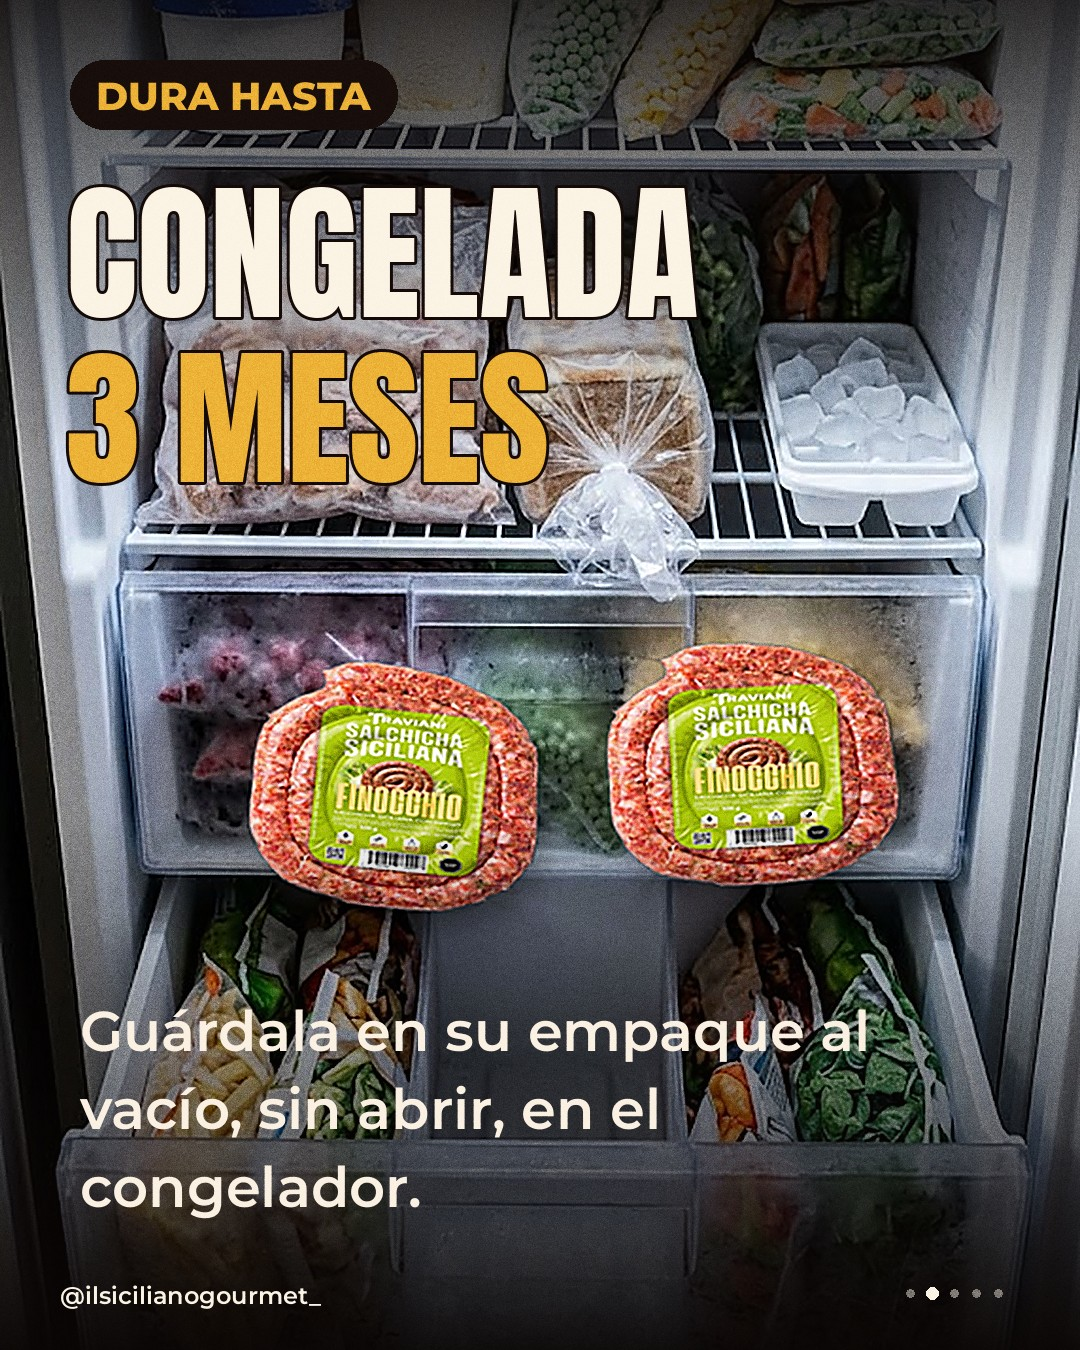
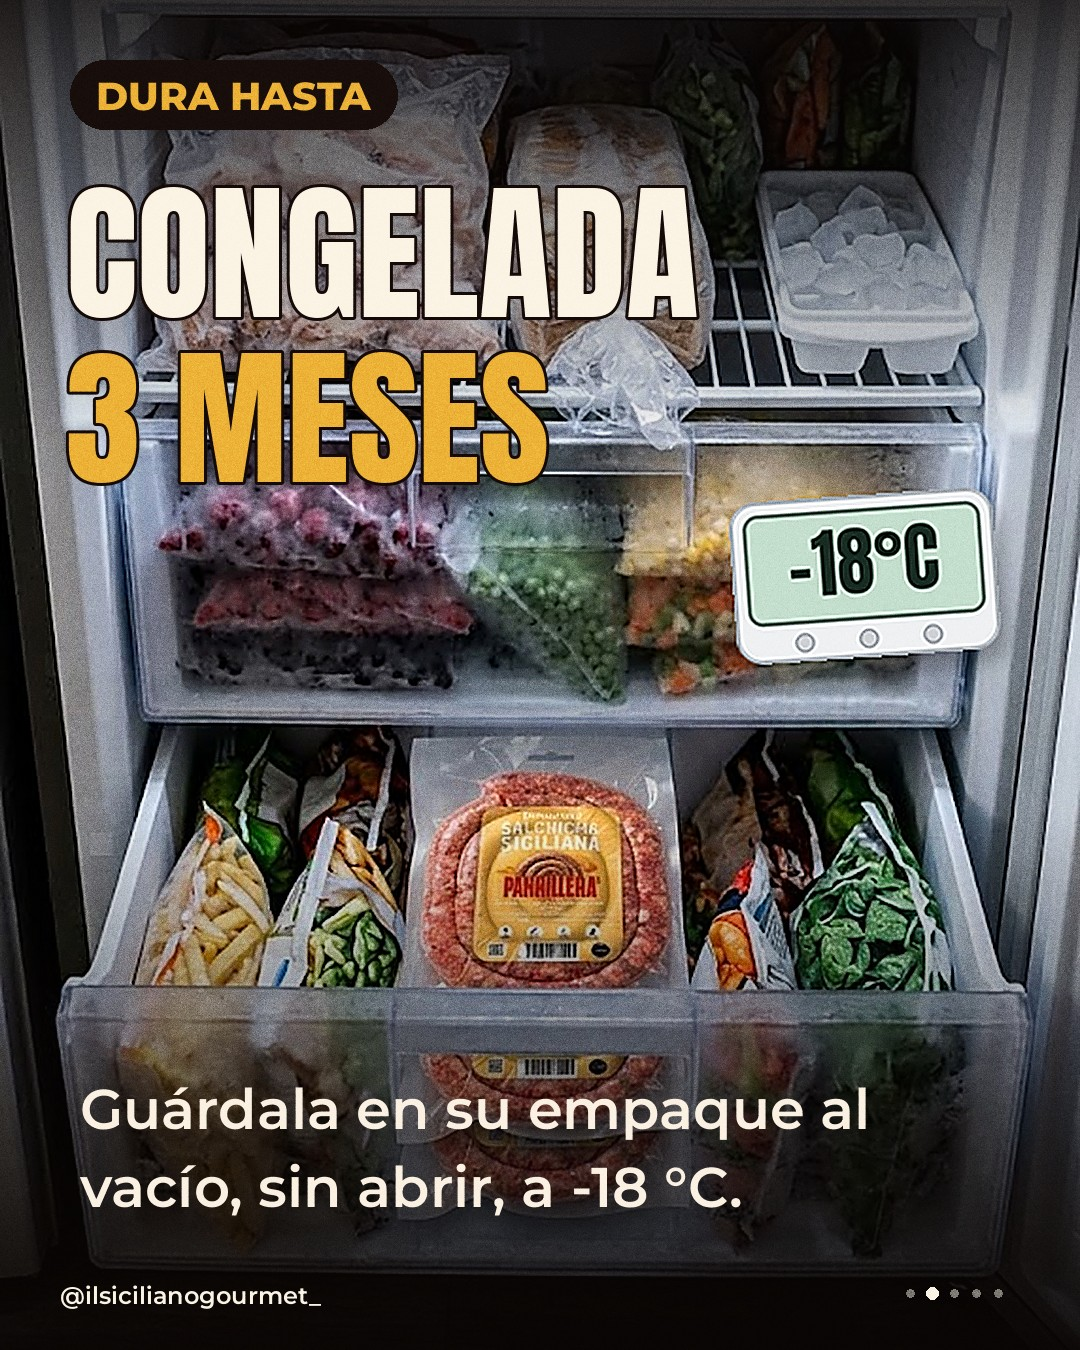
Día 10: congelador con paquete Parrillera y termómetro -18 °C
Claude-Session: https://claude.ai/code/session_01BoapLYkqJjC4bybfaGWR3T

diff --git a/dia10_v4.py b/dia10_v4.py
@@ -46,7 +46,7 @@ def laminas():
                                (3, 170, 20, 6, 0.78), (5, 0, -10, 0, 0.92)],
                               lambda h: D._fondo(h, "azul", 3), total, brillo=(200, 225, 255), glow=(120, 180, 255, 140)),
         lambda: foto_titulo(foto("congelador"), [("CONGELADA", CRE), ("3 MESES", DOR)],
-                            "Guárdala en su empaque al vacío, sin abrir, en el congelador.", 2, total, cy=0.74, chip="DURA HASTA"),
+                            "Guárdala en su empaque al vacío, sin abrir, a -18 °C.", 2, total, cy=1.0, chip="DURA HASTA"),
         lambda: foto_titulo(foto("nevera"), [("REFRIGERADA", CRE), ("3 DÍAS", DOR)],
                             "En la nevera a 4 °C o menos. Después de eso, al congelador.", 3, total, cy=0.4, chip="MÁXIMO"),
         lambda: foto_titulo(foto("descongelar"), [("CÓMO", CRE), ("DESCONGELAR", DOR)],
